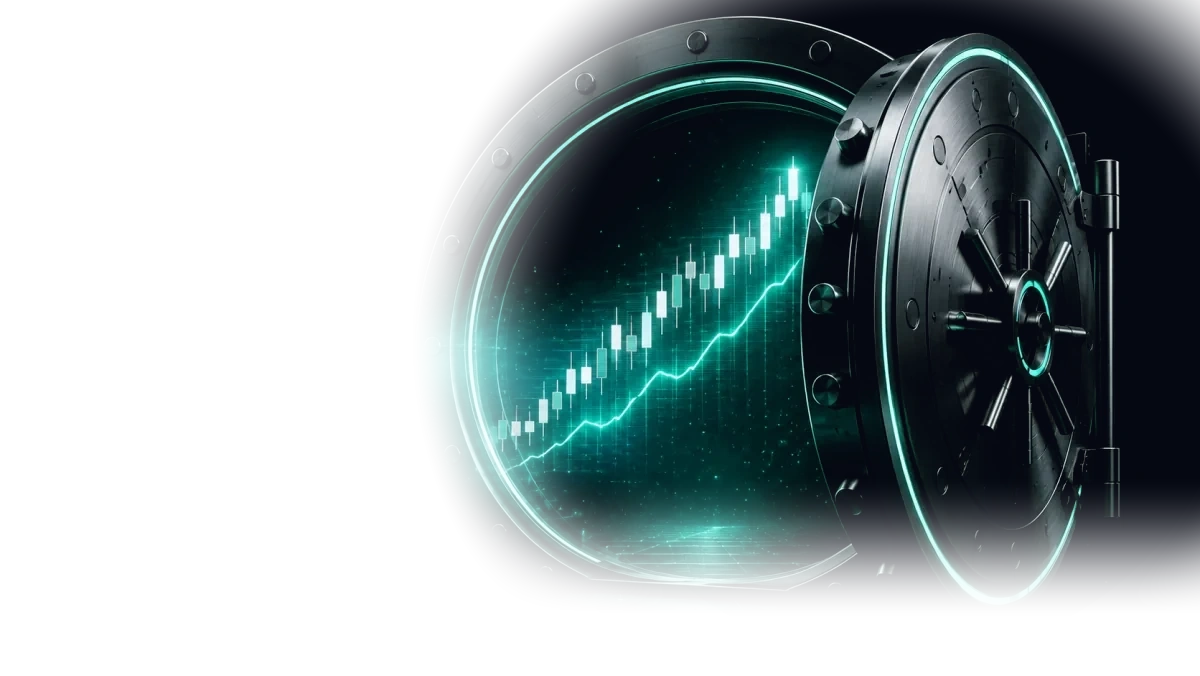
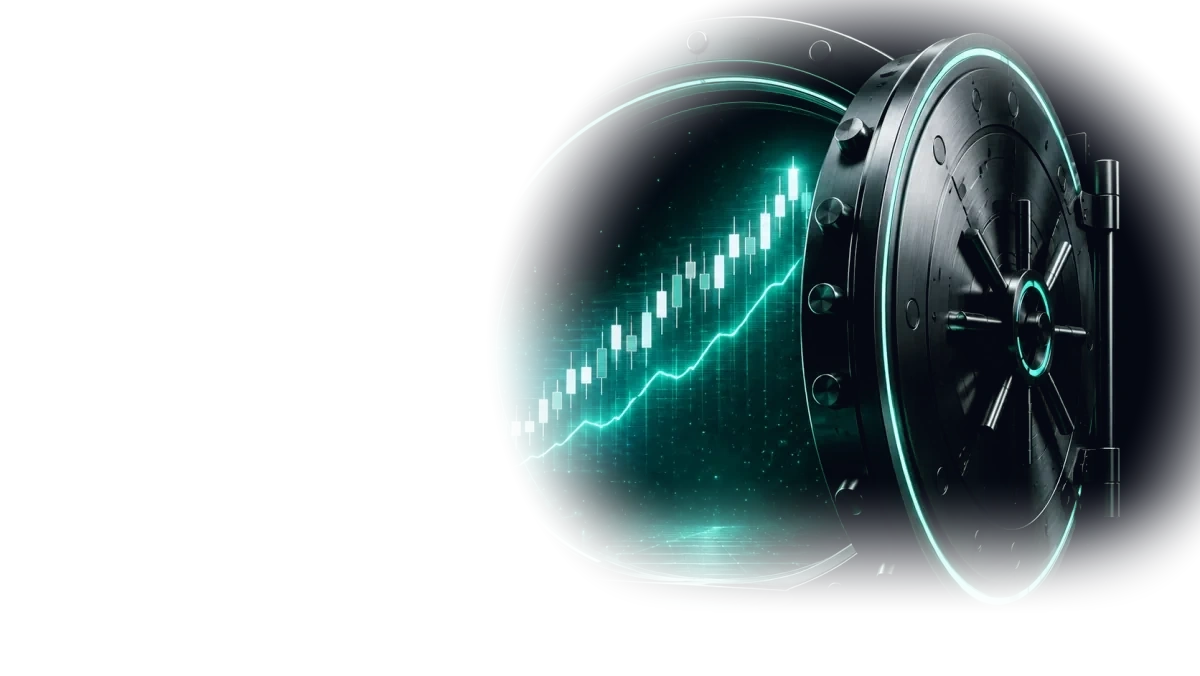
Vault: drop mix-blend-mode screen (was creating visible rectangle)

Changed region(s): [[0.3392, 0.0, 1.0, 0.8698]]

diff --git a/index.html b/index.html
@@ -166,7 +166,7 @@
 }
 </style>
 <!-- PRELOAD_HERO_START -->
-<link rel="preload" as="image" href="assets/images/vault-hero-nofloor.webp?v=202605232145" fetchpriority="high">
+<link rel="preload" as="image" href="assets/images/vault-hero-nofloor.webp?v=202605232220" fetchpriority="high">
 <!-- PRELOAD_HERO_END -->
 <!-- FONTS_BLOCK_START -->
 <link rel="preload" as="font" type="font/woff2" crossorigin href="assets/fonts/inter-400.woff2">
@@ -759,7 +759,7 @@
     </div>
 
     <div class="media">
-      <img fetchpriority="high" class="vault-hero__img" src="assets/images/vault-hero-nofloor.webp?v=202605232145" alt="TradeFundrr funded-account vault with growing trading chart"  width="1200" height="676" decoding="async" />
+      <img fetchpriority="high" class="vault-hero__img" src="assets/images/vault-hero-nofloor.webp?v=202605232220" alt="TradeFundrr funded-account vault with growing trading chart"  width="1200" height="676" decoding="async" />
     </div>
   </div>
 </section>
@@ -865,10 +865,11 @@
   .vault-hero__img {
     display: block !important; position: relative !important; z-index: 3 !important;
     width: 100% !important; max-width: none !important; height: auto !important; margin-inline: auto !important;
-    mix-blend-mode: screen !important;
-    filter: contrast(1.18) brightness(1.05) saturate(1.10) !important;
-    -webkit-mask-image: radial-gradient(ellipse 70% 72% at 60% 50%, #000 28%, transparent 92%) !important;
-    mask-image: radial-gradient(ellipse 70% 72% at 60% 50%, #000 28%, transparent 92%) !important;
+    /* mix-blend-mode removed — it was lifting image bg pixels above page bg, creating a visible rectangle.
+       Image bg is now blended to #060914 (matches page bg) so normal alpha rendering looks seamless. */
+    filter: contrast(1.10) brightness(1.02) saturate(1.10) !important;
+    -webkit-mask-image: radial-gradient(ellipse 72% 74% at 60% 50%, #000 32%, transparent 95%) !important;
+    mask-image: radial-gradient(ellipse 72% 74% at 60% 50%, #000 32%, transparent 95%) !important;
     box-shadow: none !important;
     border-radius: 0 !important;
   }